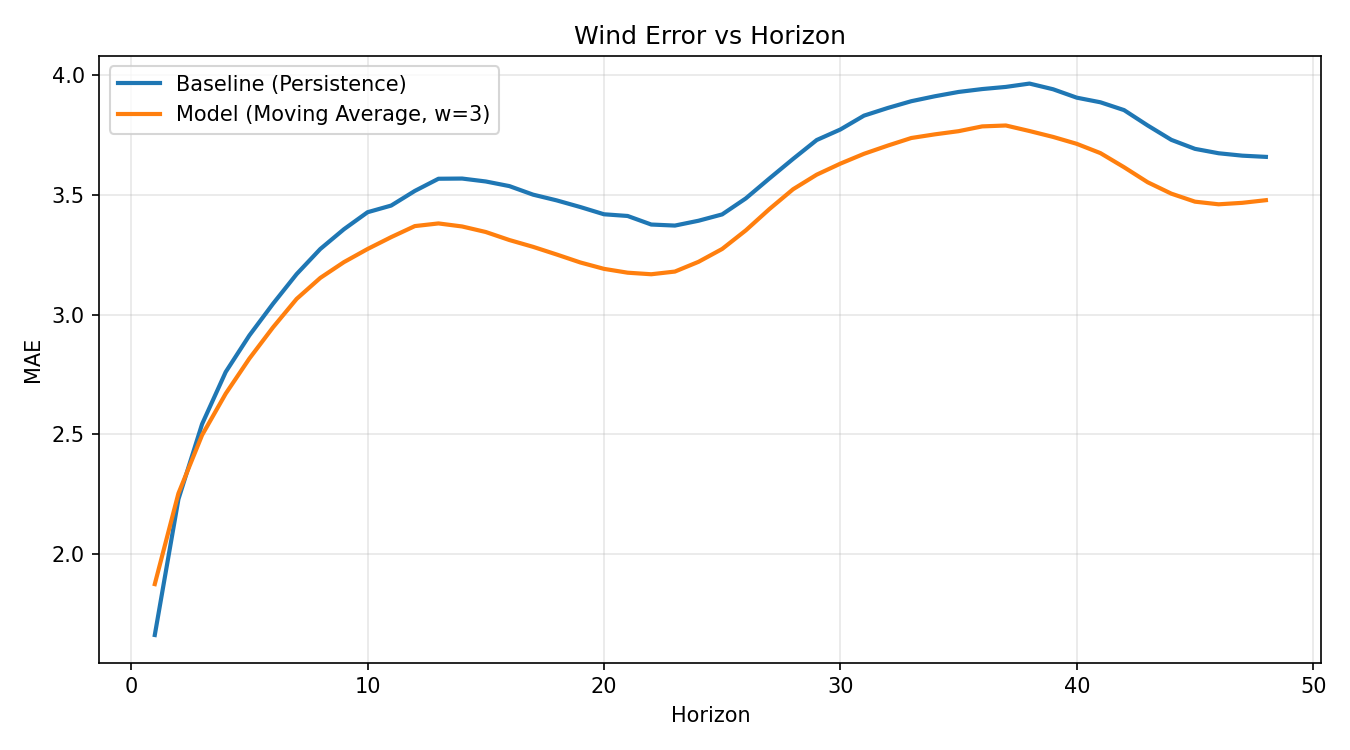
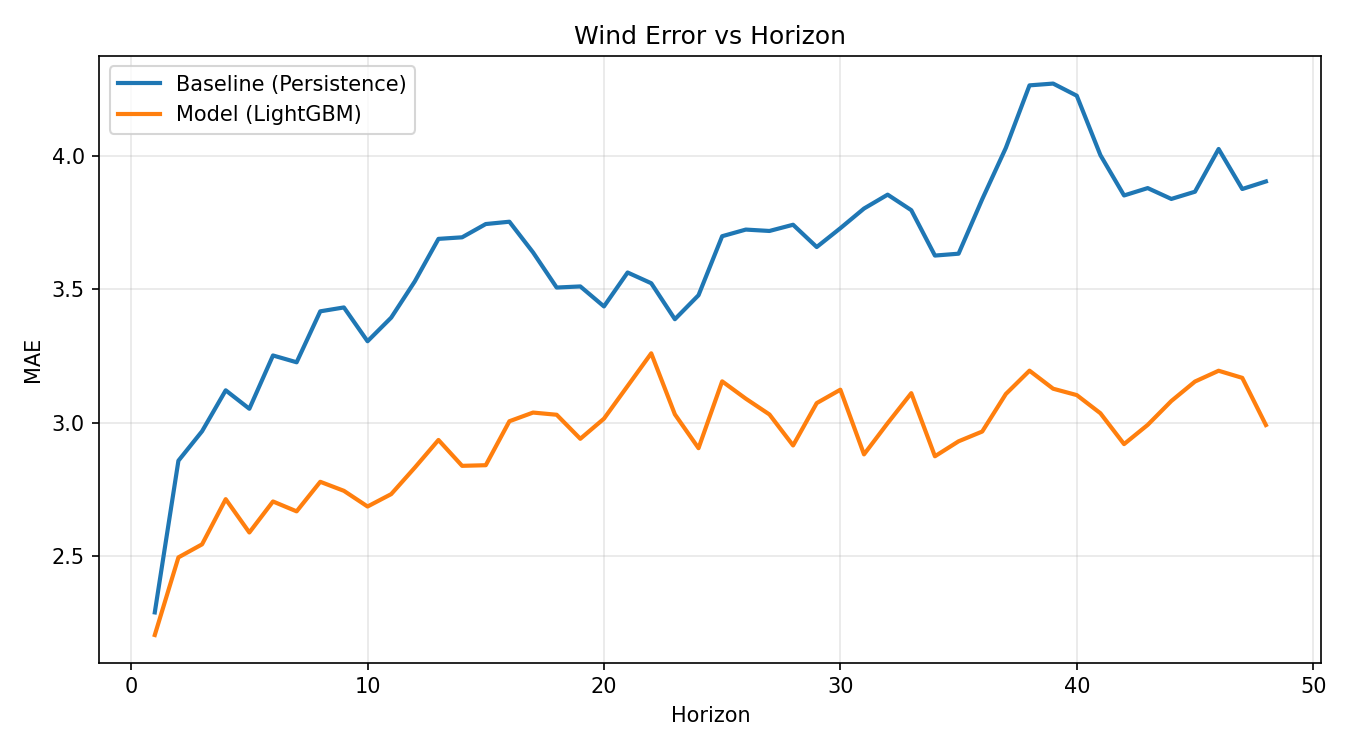
Update wind domain to canonical LightGBM comparable result

diff --git a/experiments/wind_predictability.py b/experiments/wind_predictability.py
@@ -1,44 +1,36 @@
 from pathlib import Path
+import sys
+import warnings
 
 import matplotlib.pyplot as plt
 import numpy as np
 import pandas as pd
 from sklearn.metrics import mean_absolute_error
 
+try:
+    from lightgbm import LGBMRegressor
+except ImportError as exc:
+    LGBMRegressor = None
+    IMPORT_ERROR = exc
+else:
+    IMPORT_ERROR = None
+
 DATA_PATH = Path("data/wind_hourly_clean.csv")
 RESULTS_DIR = Path("results")
 FIGURES_DIR = Path("figures")
-MAX_HORIZON = 48
-MA_WINDOW = 3
-
-
-def compute_mae_by_horizon(series: pd.Series, max_horizon: int, window: int):
-    horizons = np.arange(1, max_horizon + 1)
-    baseline_mae = []
-    model_mae = []
-
-    baseline_pred = series
-    model_pred = series.rolling(window=window).mean()
-
-    for h in horizons:
-        target = series.shift(-h)
-        valid = target.notna() & baseline_pred.notna() & model_pred.notna()
-
-        y_true = target[valid]
-        y_baseline = baseline_pred[valid]
-        y_model = model_pred[valid]
-
-        baseline_mae.append(mean_absolute_error(y_true, y_baseline))
-        model_mae.append(mean_absolute_error(y_true, y_model))
-
-    return horizons, np.array(baseline_mae), np.array(model_mae)
+HORIZONS = list(range(1, 49))
+LAGS = [0, 1, 2, 3, 6, 12, 24, 48]
+MIN_TRAIN_SAMPLES = 200
+ORIGIN_STRIDE = 24
+MAX_TRAIN_SIZE = 24 * 30
+MAX_ORIGINS_PER_HORIZON = 365
 
 
 def load_wind_series(path: Path) -> pd.Series:
     if not path.exists():
         raise FileNotFoundError(f"Input file not found: {path}")
 
-    df = pd.read_csv(path)
+    df = pd.read_csv(path, parse_dates=["timestamp"]).sort_values("timestamp")
     if "value" in df.columns:
         series = pd.to_numeric(df["value"], errors="coerce")
     elif "wind_speed" in df.columns:
@@ -49,24 +41,120 @@ def load_wind_series(path: Path) -> pd.Series:
             raise ValueError("Expected a numeric wind-speed column (e.g., 'value').")
         series = pd.to_numeric(df[numeric_cols[0]], errors="coerce")
 
-    return series.interpolate(method="linear", limit_direction="both")
+    return series.interpolate(method="linear", limit_direction="both").reset_index(drop=True)
+
+
+def build_lag_features(series: pd.Series, lags: list[int]) -> pd.DataFrame:
+    lag_df = pd.DataFrame(index=series.index)
+    for lag in lags:
+        lag_df[f"lag_{lag}"] = series.shift(lag)
+    return lag_df
+
+
+def evaluate_rolling_origin_lightgbm(series: pd.Series, horizons: list[int], lags: list[int]):
+    horizons_arr = np.array(horizons)
+    baseline_mae = []
+    model_mae = []
+
+    lag_df = build_lag_features(series, lags)
+    max_lag = max(lags)
+    n = len(series)
+
+    for h in horizons_arr:
+        y_true_list = []
+        y_baseline_list = []
+        y_model_list = []
+
+        target_series = series.shift(-h)
+        first_origin = max_lag
+        last_origin = n - h - 1
+
+        origins = list(range(first_origin, last_origin + 1, ORIGIN_STRIDE))
+        if len(origins) > MAX_ORIGINS_PER_HORIZON:
+            origins = origins[-MAX_ORIGINS_PER_HORIZON:]
+
+        for origin in origins:
+            target = target_series.iloc[origin]
+            persistence_pred = series.iloc[origin]
+            if pd.isna(target) or pd.isna(persistence_pred):
+                continue
+
+            x_origin = lag_df.iloc[origin]
+            if x_origin.isna().any():
+                continue
+
+            train_end = origin - h
+            if train_end < max_lag:
+                continue
+
+            train_start = max(max_lag, train_end - MAX_TRAIN_SIZE + 1)
+            train_idx = np.arange(train_start, train_end + 1)
+            x_train = lag_df.iloc[train_idx]
+            y_train = target_series.iloc[train_idx]
+
+            valid_train_mask = (~x_train.isna().any(axis=1)) & (~y_train.isna())
+            x_train = x_train.loc[valid_train_mask]
+            y_train = y_train.loc[valid_train_mask]
+            if len(x_train) < MIN_TRAIN_SAMPLES:
+                continue
+
+            model = LGBMRegressor(
+                n_estimators=50,
+                learning_rate=0.05,
+                num_leaves=31,
+                subsample=0.9,
+                colsample_bytree=0.9,
+                random_state=42,
+                n_jobs=4,
+                verbose=-1,
+            )
+
+            try:
+                with warnings.catch_warnings():
+                    warnings.simplefilter("ignore")
+                    model.fit(x_train, y_train)
+                model_pred = float(model.predict(x_origin.to_frame().T)[0])
+            except Exception:
+                continue
+
+            if np.isfinite(model_pred):
+                y_true_list.append(float(target))
+                y_baseline_list.append(float(persistence_pred))
+                y_model_list.append(model_pred)
+
+        print(f"Horizon {h}: valid windows={len(y_true_list)}")
+        if y_true_list:
+            baseline_mae.append(mean_absolute_error(y_true_list, y_baseline_list))
+            model_mae.append(mean_absolute_error(y_true_list, y_model_list))
+        else:
+            baseline_mae.append(np.nan)
+            model_mae.append(np.nan)
+
+    return horizons_arr, np.array(baseline_mae), np.array(model_mae)
 
 
 def main():
-    series = load_wind_series(DATA_PATH)
+    if LGBMRegressor is None:
+        print(
+            "lightgbm is not available. Install it with 'pip install lightgbm' and rerun.",
+            file=sys.stderr,
+        )
+        print(f"Import error detail: {IMPORT_ERROR}", file=sys.stderr)
+        raise SystemExit(1)
 
-    horizons, baseline_mae, model_mae = compute_mae_by_horizon(
+    series = load_wind_series(DATA_PATH)
+    horizons, baseline_mae, model_mae = evaluate_rolling_origin_lightgbm(
         series=series,
-        max_horizon=MAX_HORIZON,
-        window=MA_WINDOW,
+        horizons=HORIZONS,
+        lags=LAGS,
     )
 
     with np.errstate(divide="ignore", invalid="ignore"):
         skill = 1.0 - (model_mae / baseline_mae)
     skill = np.where(np.isfinite(skill), skill, np.nan)
 
-    valid_horizons = horizons[skill > 0]
-    h_star = int(valid_horizons.max()) if valid_horizons.size > 0 else 0
+    positive_horizons = horizons[skill > 0]
+    h_star = int(positive_horizons.max()) if positive_horizons.size > 0 else 0
 
     RESULTS_DIR.mkdir(parents=True, exist_ok=True)
     FIGURES_DIR.mkdir(parents=True, exist_ok=True)
@@ -87,7 +175,7 @@ def main():
 
     plt.figure(figsize=(9, 5))
     plt.plot(horizons, baseline_mae, label="Baseline (Persistence)", linewidth=2)
-    plt.plot(horizons, model_mae, label=f"Model (Moving Average, w={MA_WINDOW})", linewidth=2)
+    plt.plot(horizons, model_mae, label="Model (LightGBM)", linewidth=2)
     plt.xlabel("Horizon")
     plt.ylabel("MAE")
     plt.title("Wind Error vs Horizon")

diff --git a/paper/paper2_draft.tex b/paper/paper2_draft.tex
@@ -259,11 +259,11 @@ Domain & $H^*_{\max}$ & $H^*_{\mathrm{zc}}$ & $H^*$ (time) & Notes \\
 \midrule
 PM$_{2.5}$ & 48 & ? & ? & strong persistence; late skill recovery \\
 Load (daily) & 1 & 1 & 1 day & persistence dominates beyond 1 day \\
-Wind & ? & ? & ? &  \\
+Wind & 48 & 48 & 48 h & positive skill across full range ($h=1..48$) \\
 Traffic & ? & ? & ? &  \\
 \bottomrule
 \end{tabular}
-\caption{Predictability horizon comparison across domains (current draft with PM$_{2.5}$ and energy preliminary results).}
+\caption{Predictability horizon comparison across domains (current draft with PM$_{2.5}$, energy, and wind results).}
 \label{tab:results}
 \end{table}
 
@@ -292,7 +292,7 @@ Despite these dependencies, operational predictability horizons provide a practi
 \section{Conclusion}
 This paper proposes an operational framework for evaluating predictability horizons in real-world forecasting systems under reproducible, leakage-free protocols.
 By combining forecast skill analysis with explicit baseline comparison, the framework aims to quantify the temporal extent of useful predictability across heterogeneous domains.
-Preliminary evidence from the PM$_{2.5}$ and energy domains shows that strong temporal persistence can make baseline forecasts highly competitive and can complicate horizon estimation when skill curves are non-monotonic or extremely short.
-The remaining wind and traffic domains will complete the cross-domain empirical comparison.
+Current evidence from the PM$_{2.5}$, energy, and wind domains shows that baseline competitiveness and skill-curve morphology are domain-dependent, ranging from delayed skill emergence to full-range positive skill.
+The remaining traffic domain will complete the cross-domain empirical comparison.
 
 \end{document}

diff --git a/results/wind_experiment_summary.md b/results/wind_experiment_summary.md
@@ -5,20 +5,24 @@
 - **Target variable:** wind speed at 100m, represented as canonical `value`.
 - **Frequency:** hourly.
 - **Baseline:** persistence.
-- **Model:** moving average (`window=3`).
+- **Model:** LightGBM (LAGS=[0,1,2,3,6,12,24,48], ORIGIN_STRIDE=24, n_estimators=50, rolling-origin).
 - **Hmax:** `48` (`h=1..48`).
 - **Metric:** MAE with skill relative to persistence.
-- **Observed Skill(h) behavior:** Skill is negative at `h=1,2` and positive from `h=3` onward.
+- **Observed Skill(h) behavior:** Skill is positive across the full evaluated range (`h=1..48`).
 
 ## H* Reporting
 
 - **H*(relax):** `48`
-- **H*(strict):** `46`
-- **[h_start, h_end]:** `[3, 48]`
-- **H*(time):** `46 h`
+- **H*(strict):** `48`
+- **[h_start, h_end]:** `[1, 48]`
+- **H*(time):** `48 h`
+
+## Correction Note
+
+The official comparable wind-domain result is produced with the canonical LightGBM protocol used across comparable domains.
 
 ## Interpretation
 
-The wind domain shows early negative skill at `h=1,2`, followed by a long contiguous positive-skill interval (`h=3..48`), indicating sustained operational predictability after the shortest lead times.
+The wind domain shows sustained positive skill across all evaluated horizons, indicating a full-range contiguous interval of useful operational predictability relative to persistence.
 
 The reported time-based horizon corresponds to H*(strict), i.e., to the contiguous positive-skill interval, rather than to H*(relax).
